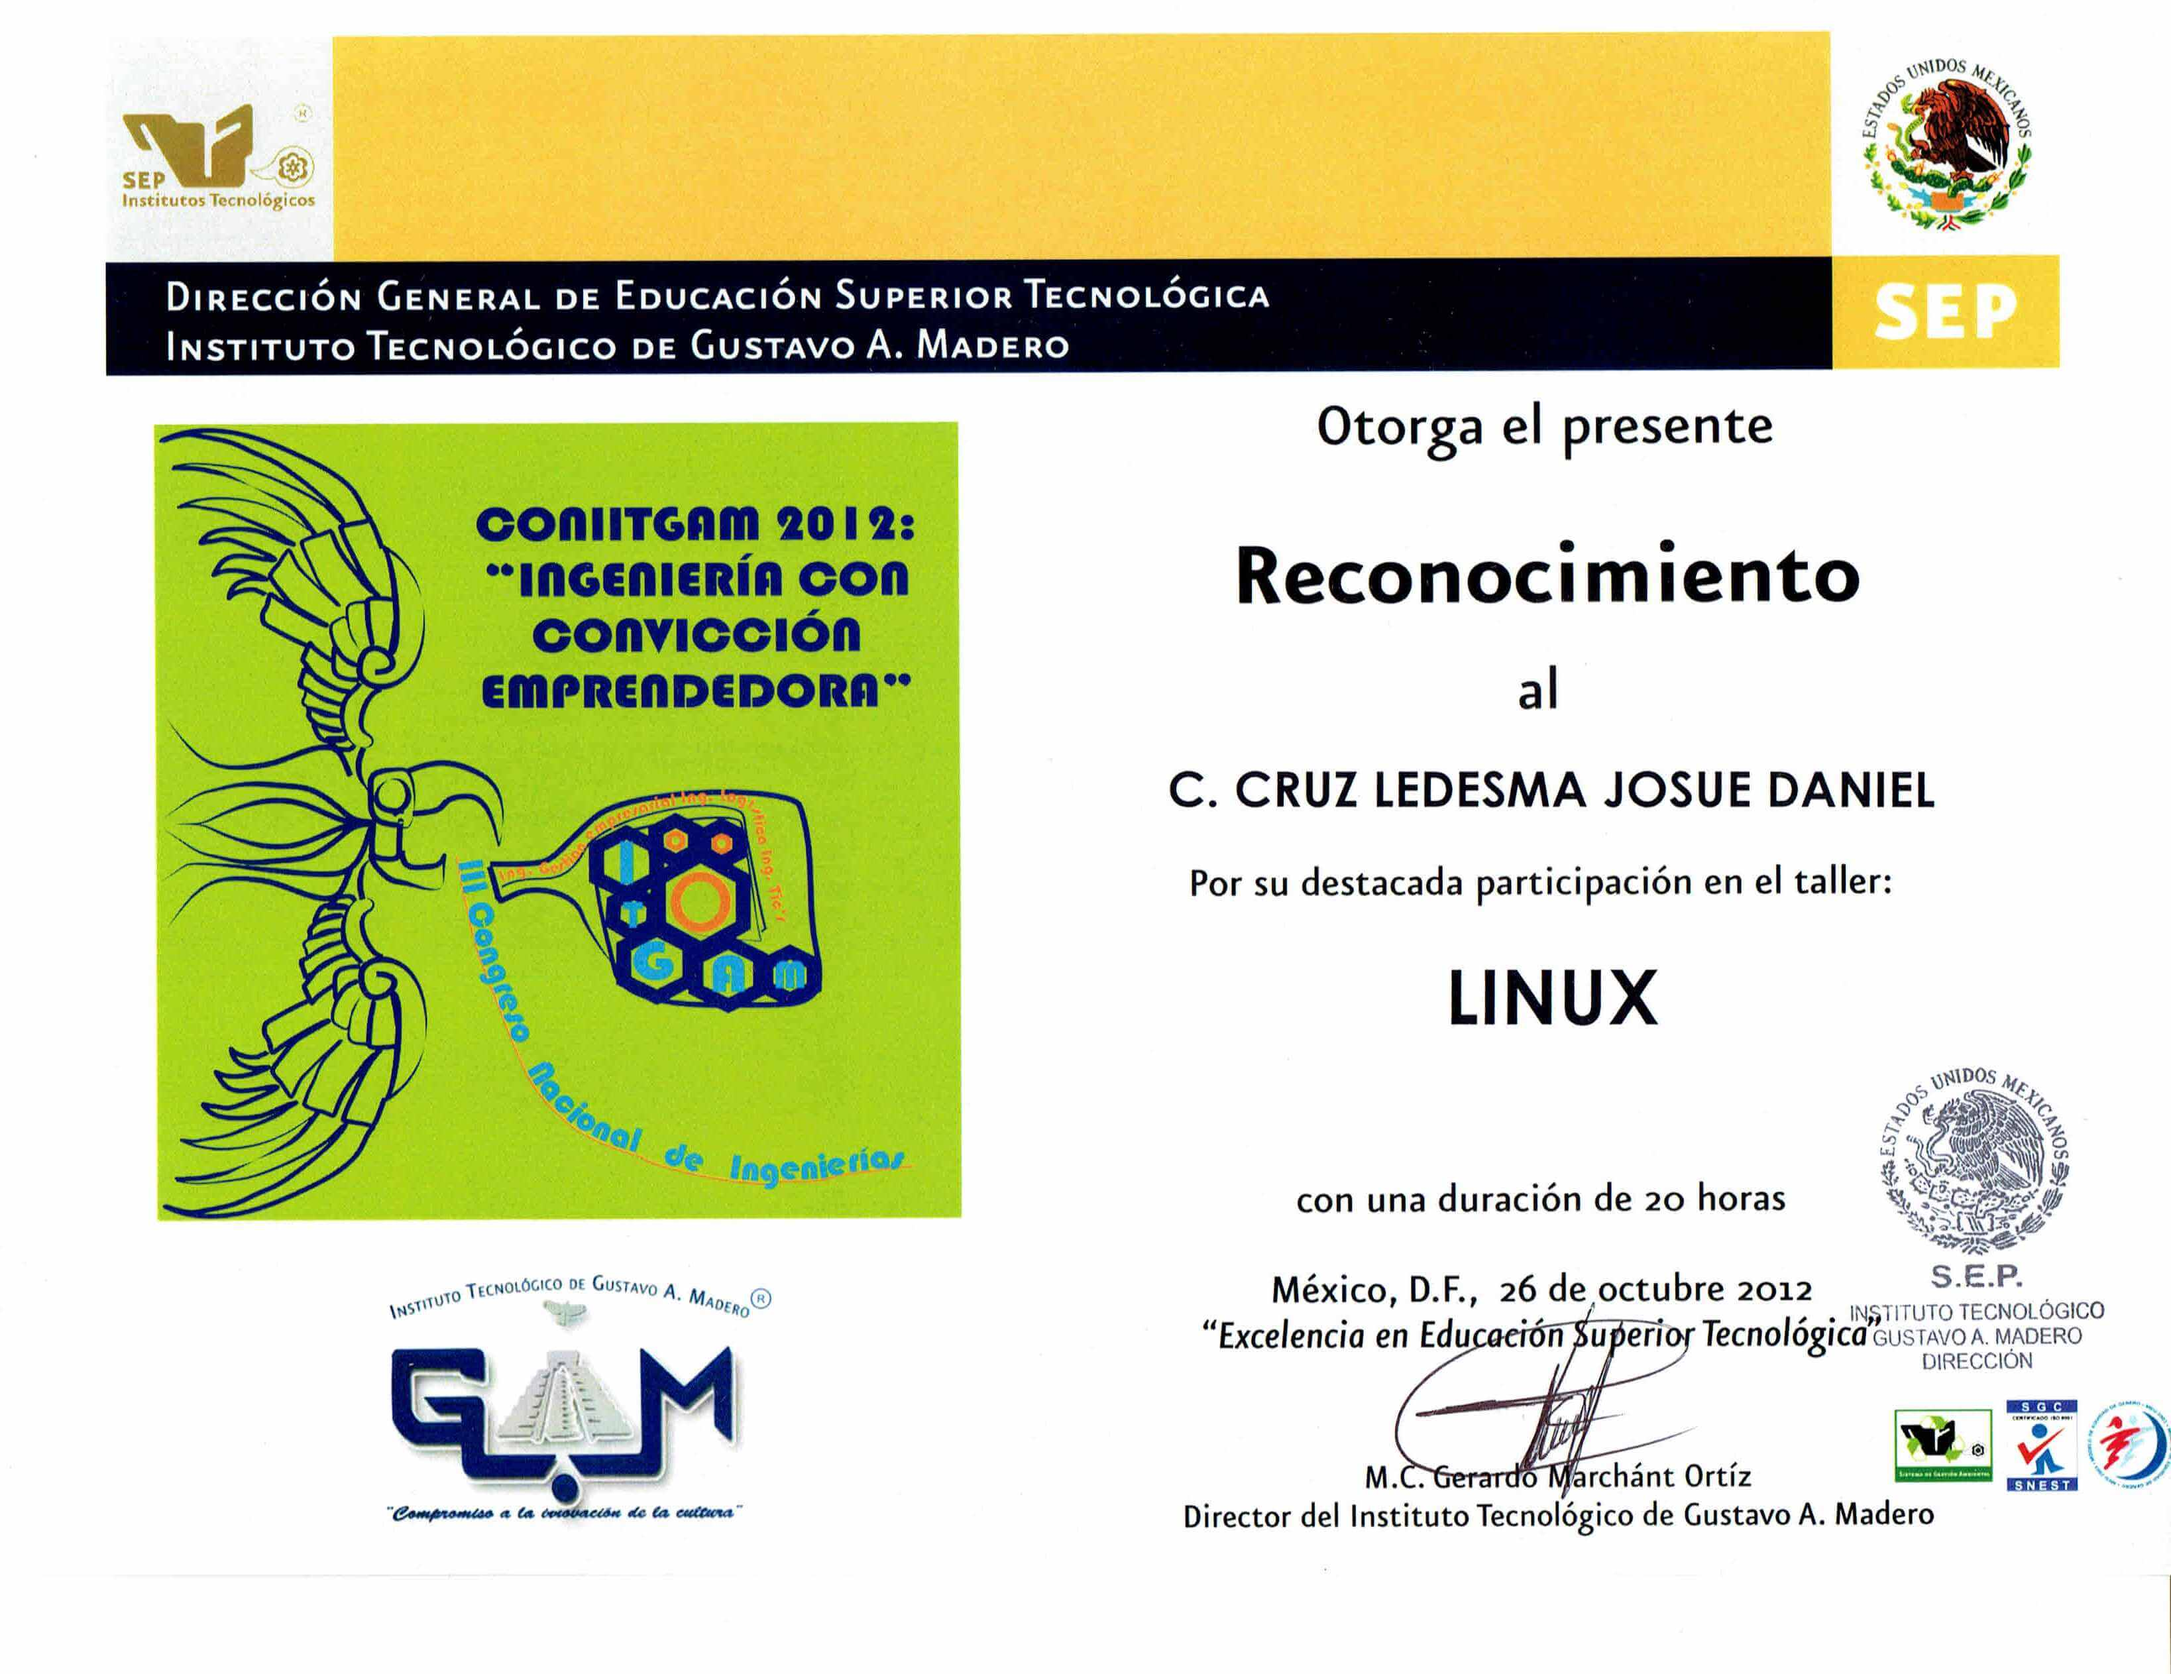
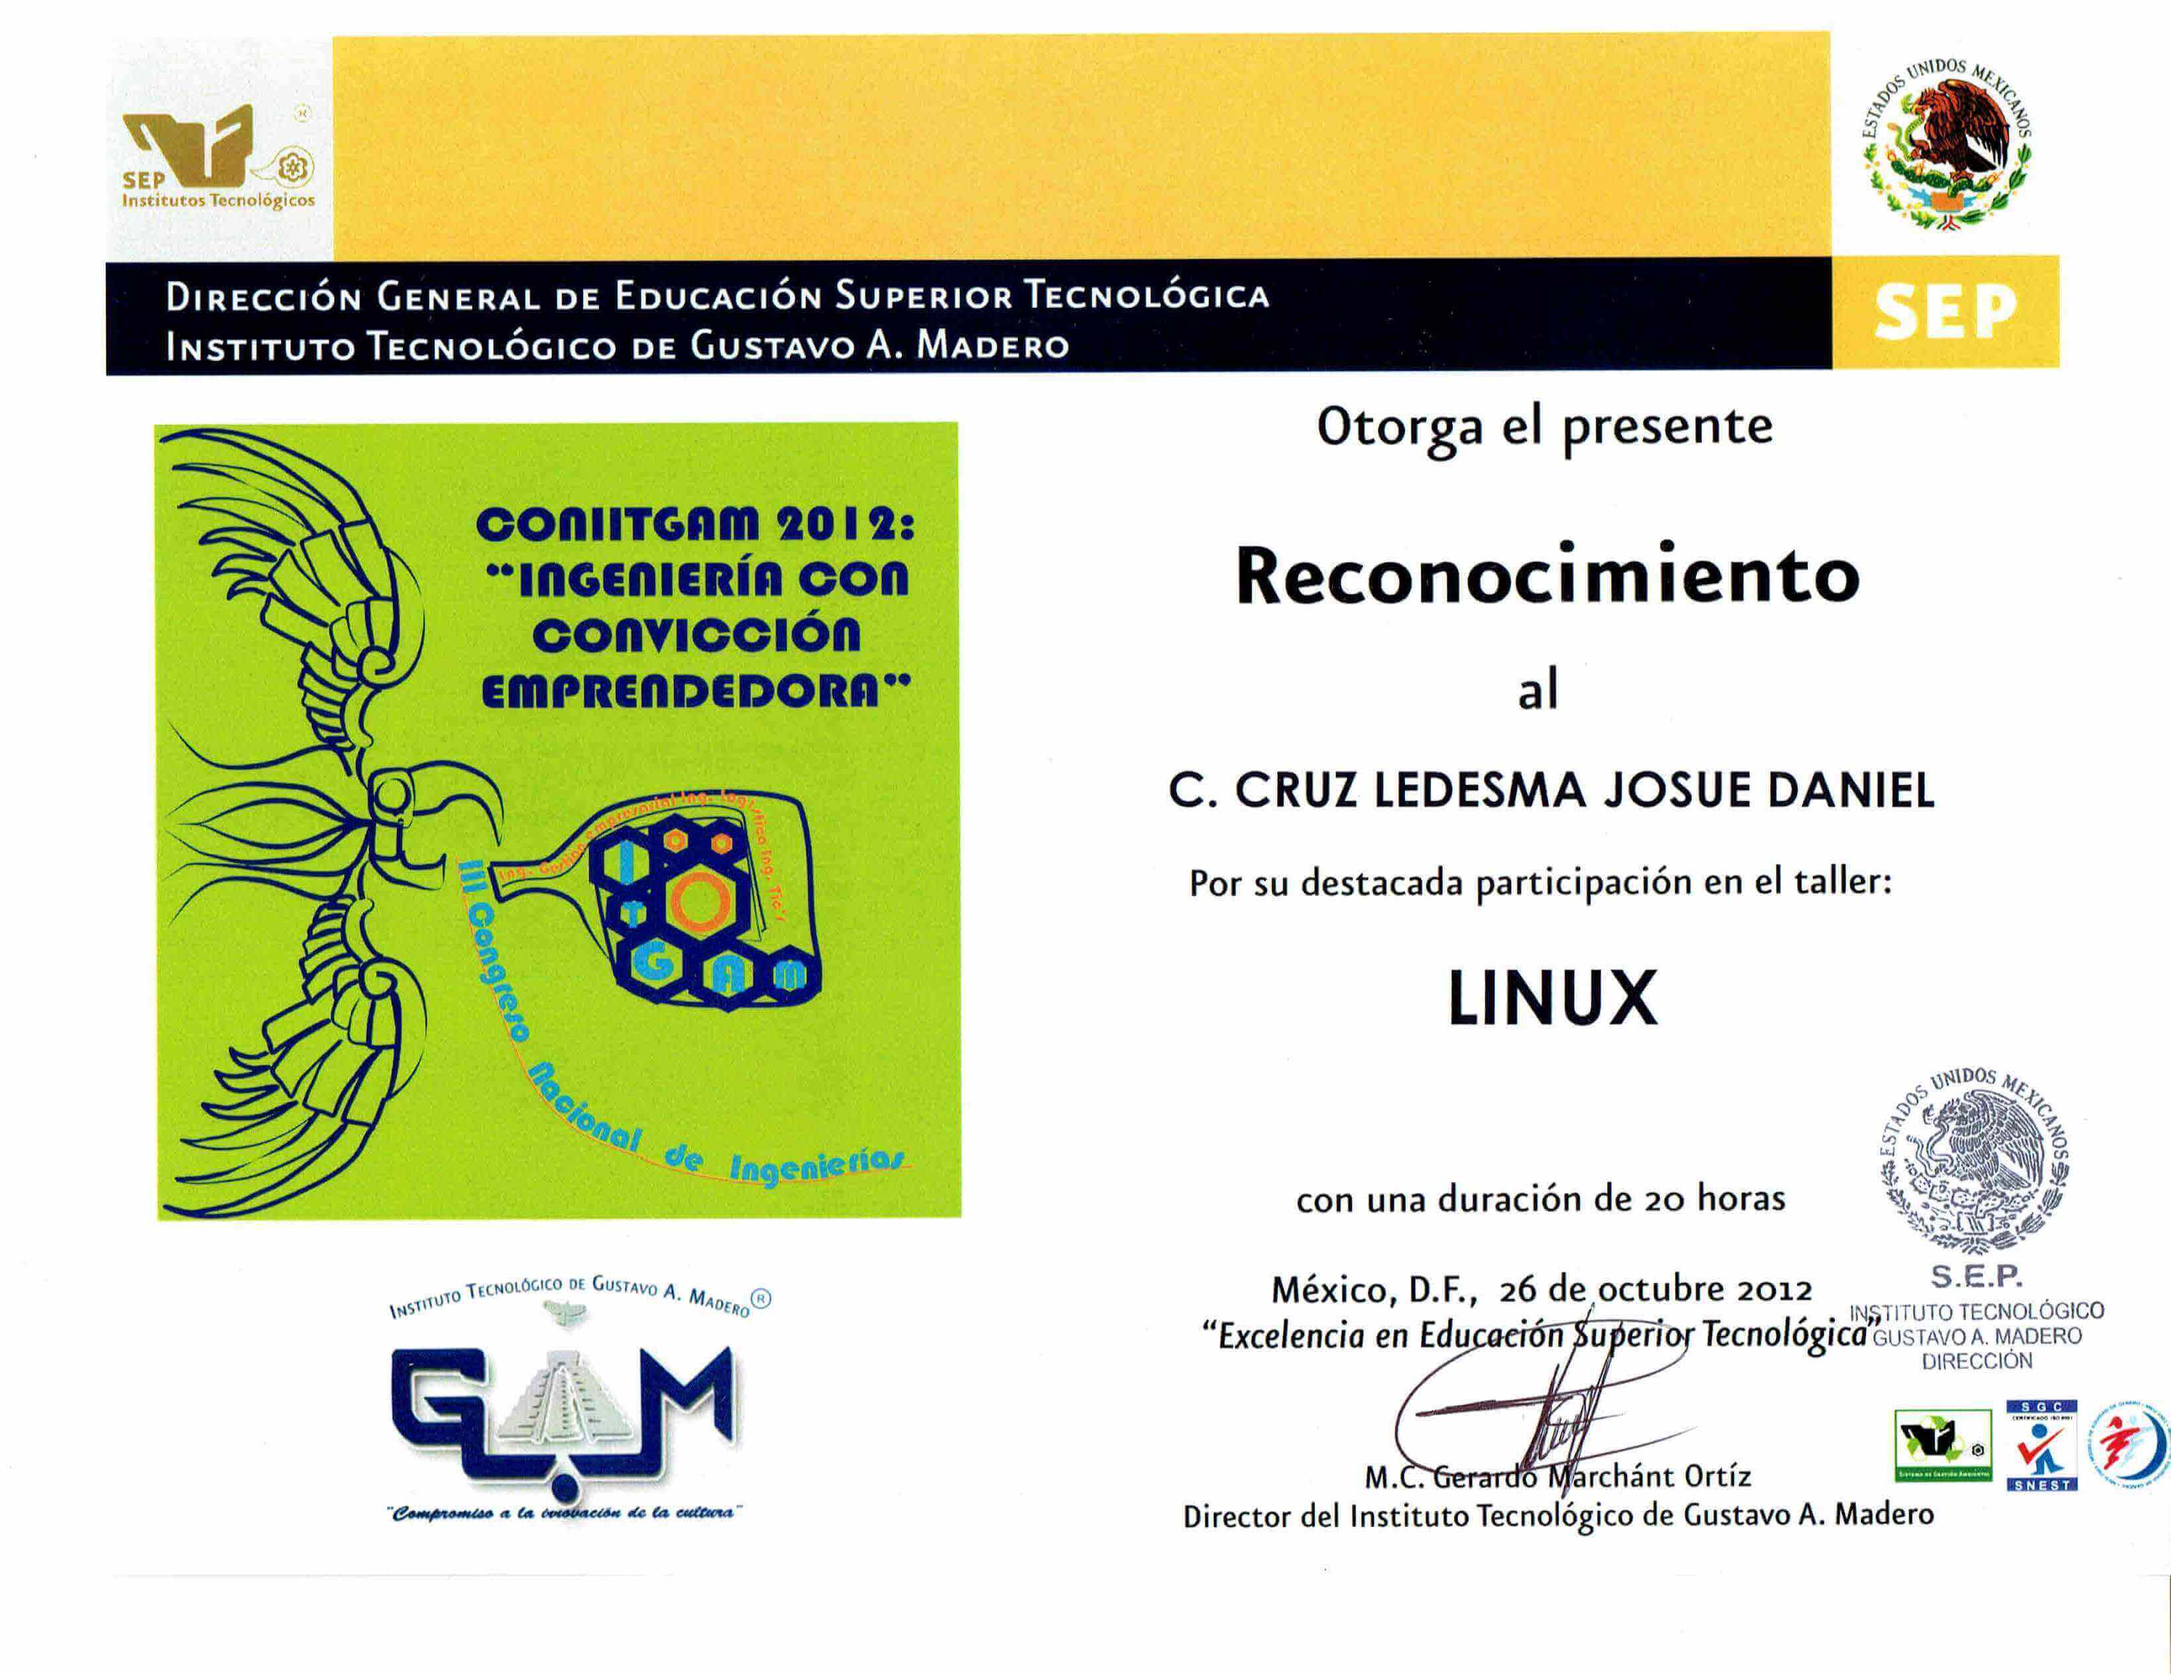
experimentos con los certificados, al final quedaron igual, en MD se cambio el fondo de las tecnologías con un parallax, se le dio un poco mas de estilos al lightbox, el parallax no funcionaba porque no le había pasado la carpeta del plugin pero ahora ya sirve

Changed region(s): [[0.1245, 0.6793, 0.1557, 0.7102]]

diff --git a/public/myCVs/CV-MDB/css/danielcvmdb.css b/public/myCVs/CV-MDB/css/danielcvmdb.css
@@ -2,7 +2,7 @@
 .cuarenta{font-size: 30px;}
 .centro{text-align: center;}
 .treinta{margin-top: 30px;}
-.punta{border-radius: 0px;}
+.punta{border-radius: 0px;border: 2px solid !important; border-color: #4285f4 !important;}
 .imgAltura{height: 245px !important; width: 100%;}
 
 /*estilos navbar*/

diff --git a/public/myCVs/CV-MDB/js/danielcvmdb.js b/public/myCVs/CV-MDB/js/danielcvmdb.js
@@ -1,5 +1,3 @@
 $( document ).ready(function(){
-
 $('.tecnologyMd').parallax({imageSrc: '/img/tecCode.png'});
-
 });
